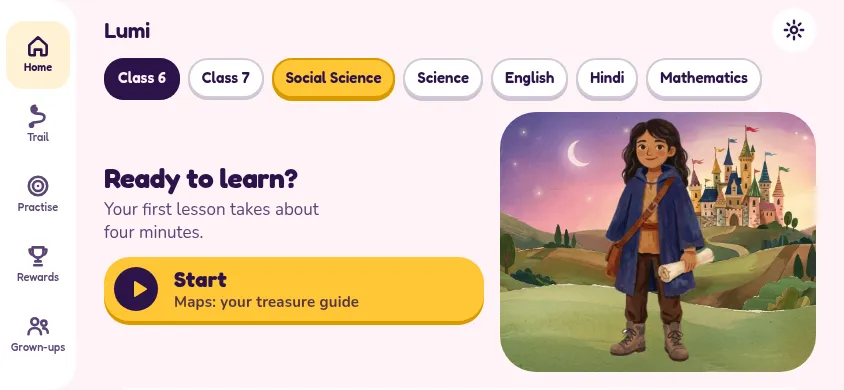
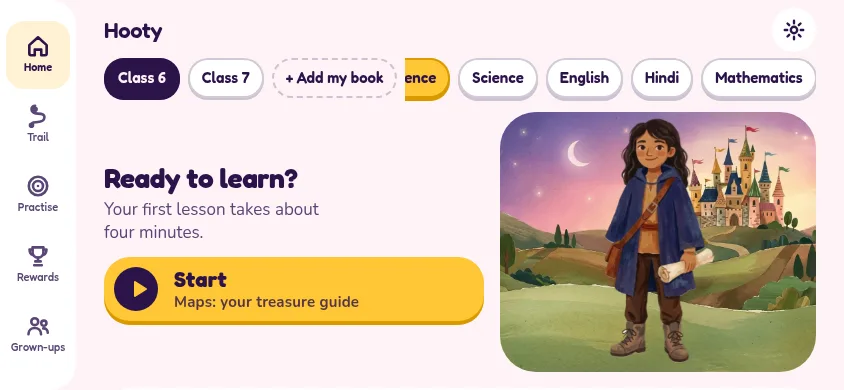
README: Hooty address, Class 7 complete, fresh screenshots

diff --git a/README.md b/README.md
@@ -8,7 +8,7 @@
 
 A free learning game for school children in India, built chapter by chapter from the NCERT textbooks.
 
-**[▶ Play Hooty](https://lumi.barestack.org/)**
+**[▶ Play Hooty](https://hooty.org/)**
 
 No sign-up. No ads. Nothing a child does ever leaves their device.
 
@@ -58,8 +58,8 @@ The aim is simple: a child should understand the idea, not just remember the sen
 | Class | Mathematics | Science | Social Science | English | Hindi |
 |:-----:|:-----------:|:-------:|:--------------:|:-------:|:-----:|
 | **6** | ✅ | ✅ | ✅ | ✅ | ✅ |
-| **7** | ✅ | ✅ | 🛠 part way | 🛠 | 🛠 |
-| **1 to 5, 8 to 10** | 🛠 | 🛠 | 🛠 | 🛠 | 🛠 |
+| **7** | ✅ | ✅ | ✅ | ✅ | ✅ |
+| **1 to 5, 8 to 10** | 🛠 (Class 8 first) | 🛠 | 🛠 | 🛠 | 🛠 |
 
 ✅ on the site &nbsp;·&nbsp; 🛠 being built, or waiting its turn
 
